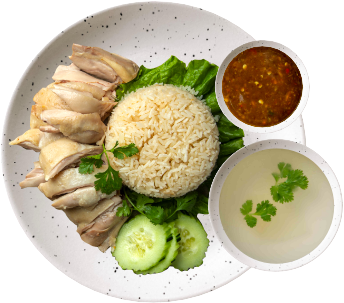
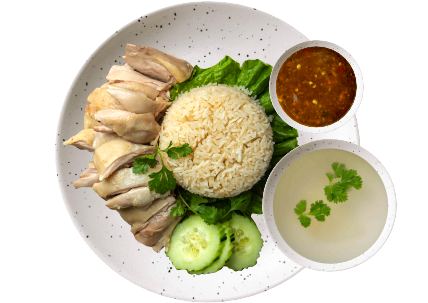
fix: crop image resolution

diff --git a/src/components/Landing/ThaiStreetSection.tsx b/src/components/Landing/ThaiStreetSection.tsx
@@ -68,7 +68,7 @@ function ThaiStreetSection({ }: Props) {
 
                             return (
                                 <SwiperSlide key={idx} className={`pb-1 !flex !flex-col !justify-end !w-[200px] !h-[200px] md:!w-[300px] md:!h-[300px] lg:!w-[500px] lg:!h-[500px] ${Opacity}`}>
-                                    <Image width={400} height={400} alt='' src={image.src} />
+                                    <Image width={500} height={500} alt='' src={image.src} />
                                     {isActive &&
                                         <p
                                             data-aos="zoom-in"
@@ -106,7 +106,7 @@ function ThaiStreetSection({ }: Props) {
 
                             return (
                                 <SwiperSlide key={idx} className={`pb-1 !flex !flex-col !justify-end !w-[200px] !h-[200px] md:!w-[300px] md:!h-[300px] lg:!w-[500px] lg:!h-[500px] ${Opacity}`}>
-                                    <Image width={400} height={400} alt='' src={image.src} />
+                                    <Image width={500} height={500} alt='' src={image.src} />
                                     {isActive &&
                                         <p
                                             data-aos="zoom-in"
